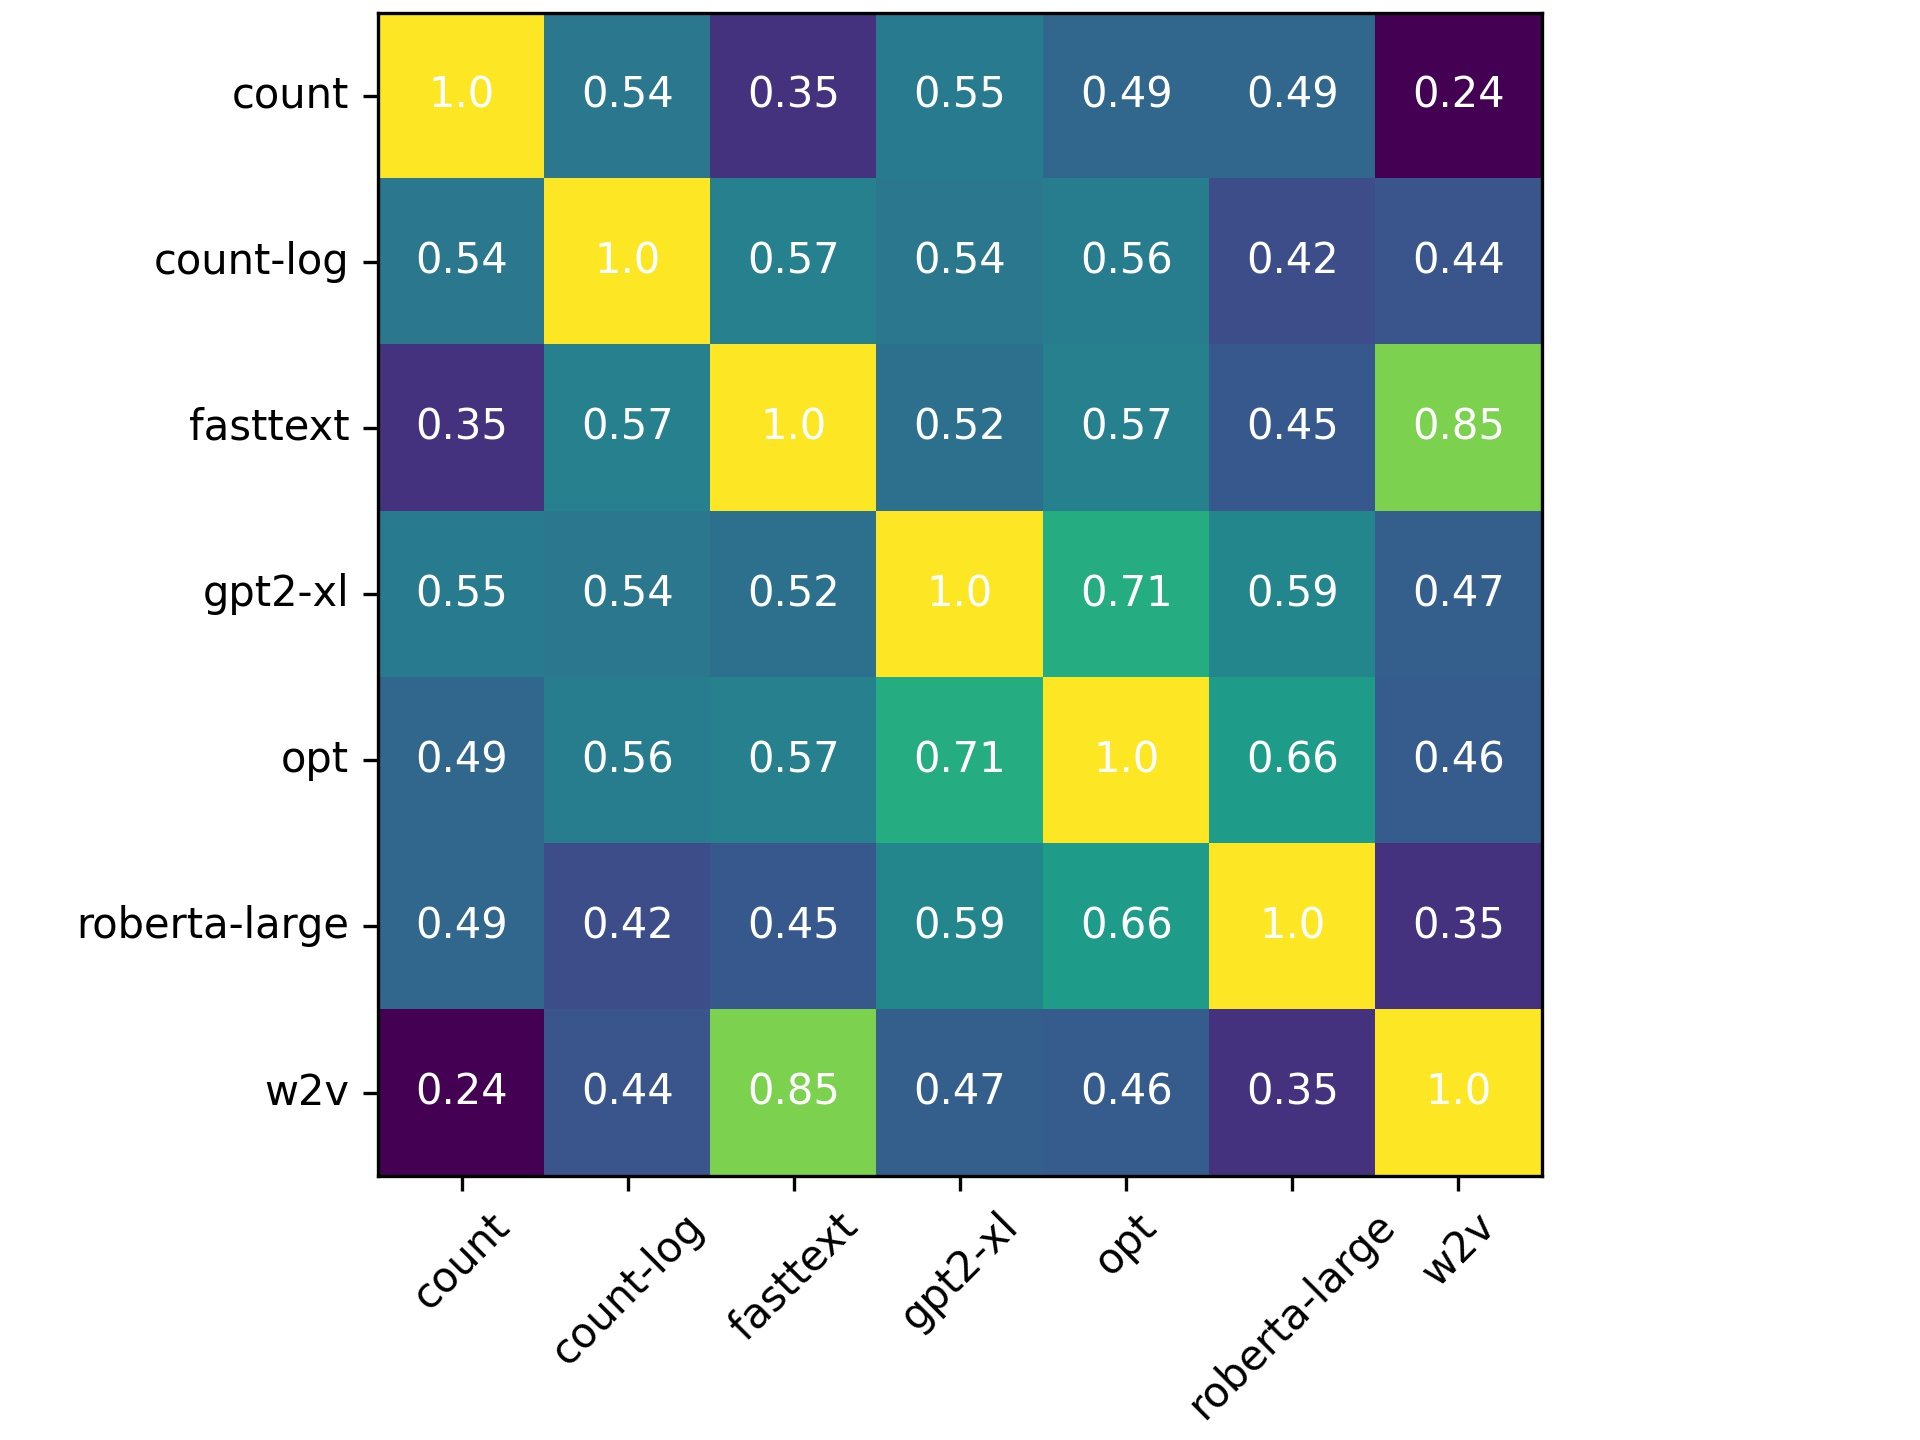
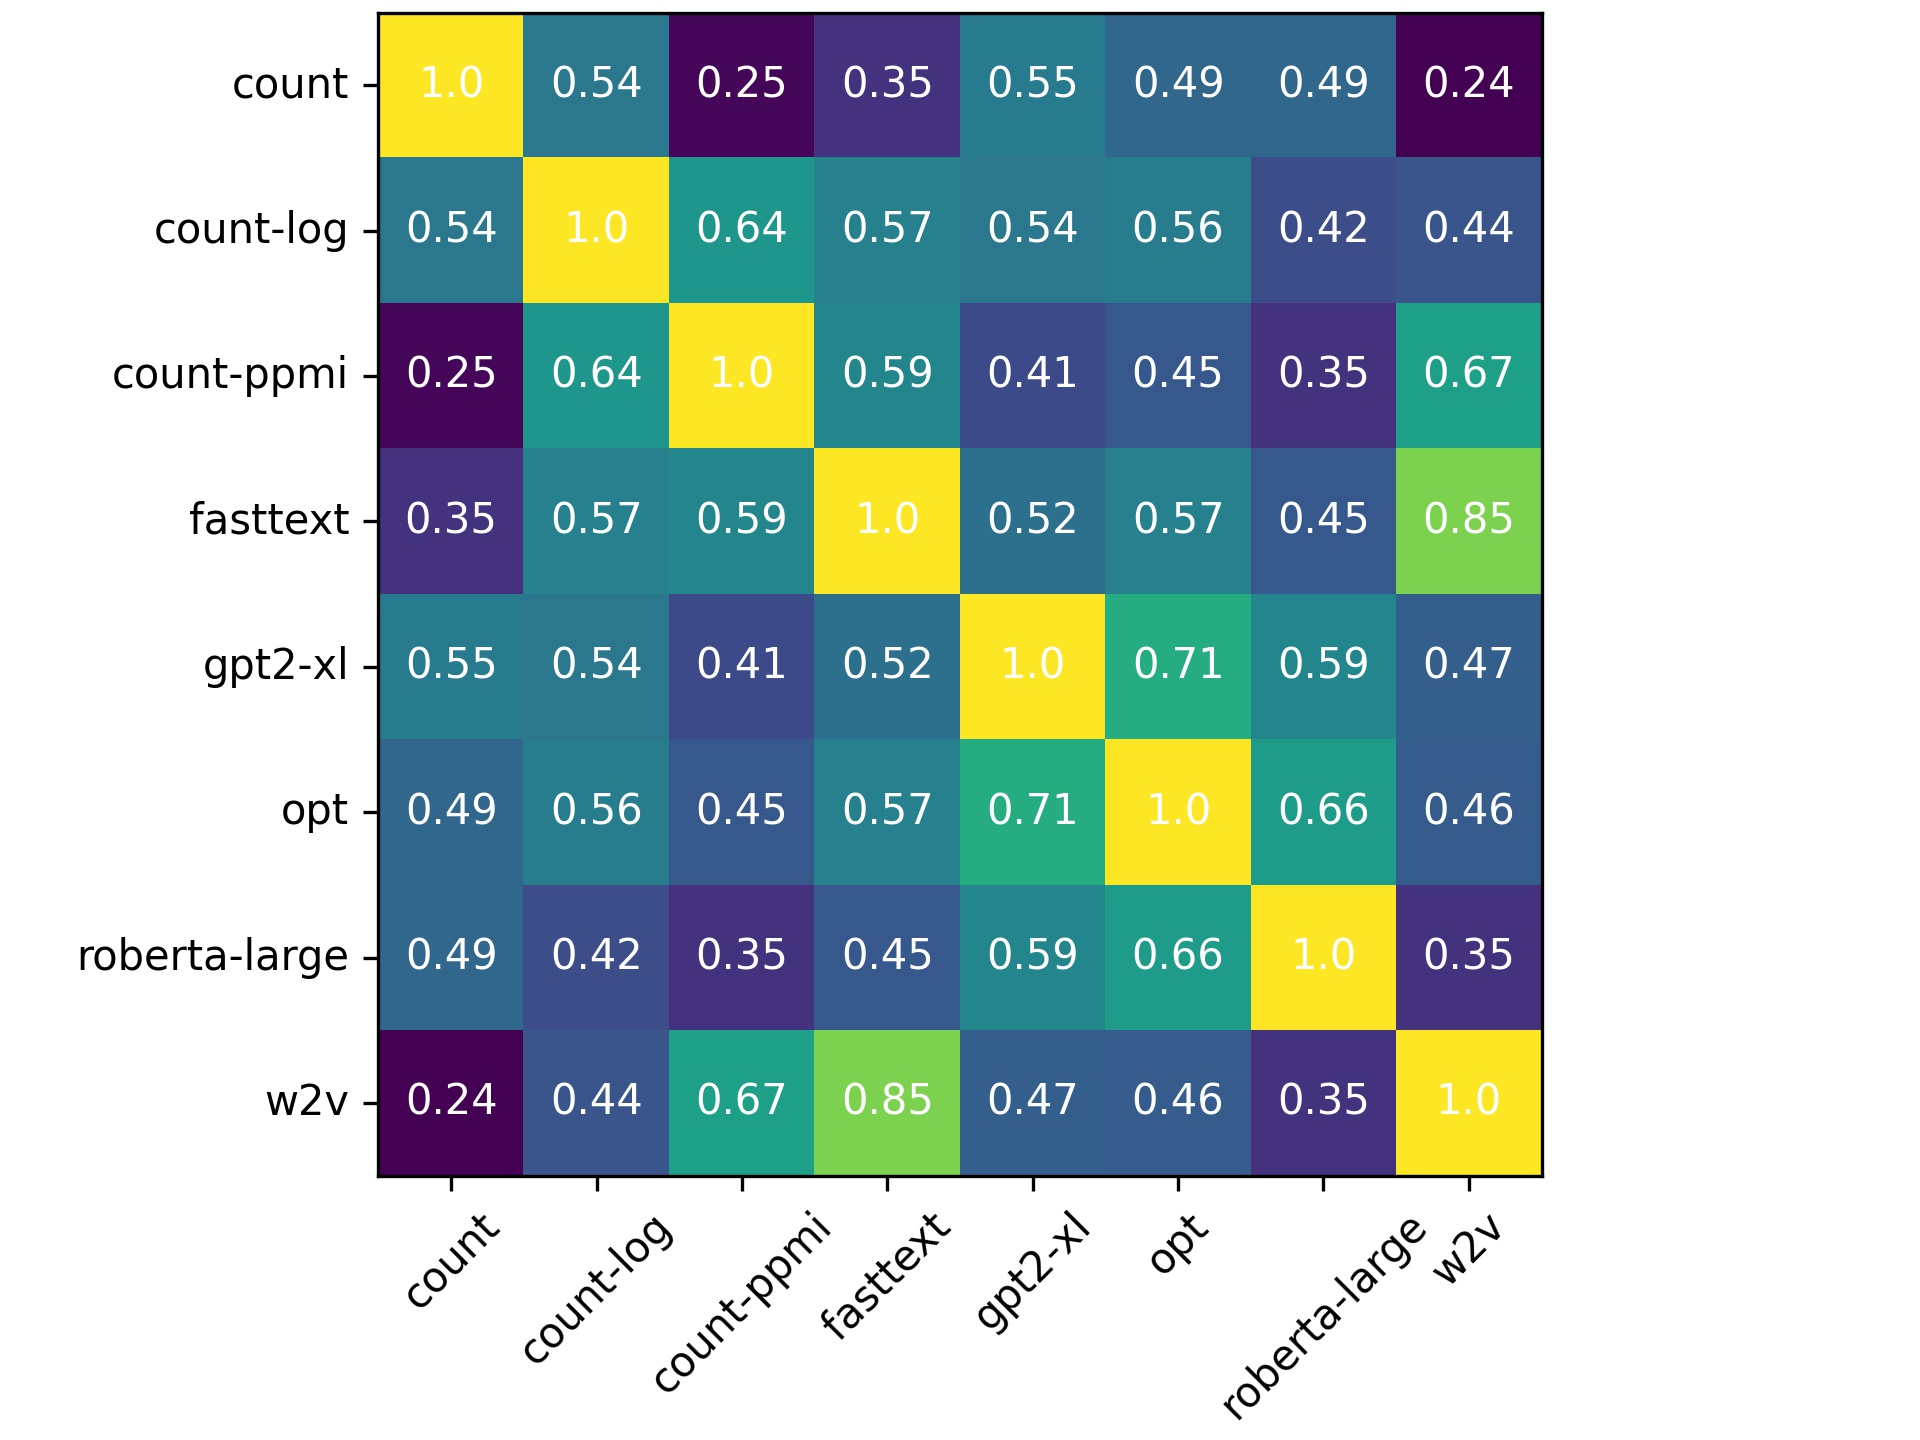
update

diff --git a/extract_static.py b/extract_static.py
@@ -126,7 +126,21 @@ else:
     with open(coocs_file, 'wb') as o:
         pickle.dump(final_coocs, o)
 
+total = sum([final_freqs[w] for w in conc_vocab])
+
 collector['count'] = {k : numpy.average([[final_coocs[vocab[k_word]][vocab[other]] for other in conc_vocab] for k_word in k.split()], axis=0) for k in full_stimuli}
+collector['count-ppmi'] = {k : numpy.average(
+                            [[
+                              #max(
+                                 numpy.log2(
+                                 (
+                                  max(final_coocs[vocab[k_word]][vocab[other]], 0.1) / total
+                                  ) / (
+                                       final_freqs[k_word] * (final_freqs[other]**0.75)
+                                 #      )
+                                 #          ), #0) 
+                                 )) for other in conc_vocab] for k_word in k.split()],
+                             axis=0) for k in full_stimuli}
 collector['count-log'] = {k : [numpy.log(v) if v!=0. else 0. for v in vec] for k, vec in collector['count'].items()}
 
 print('loaded!')
